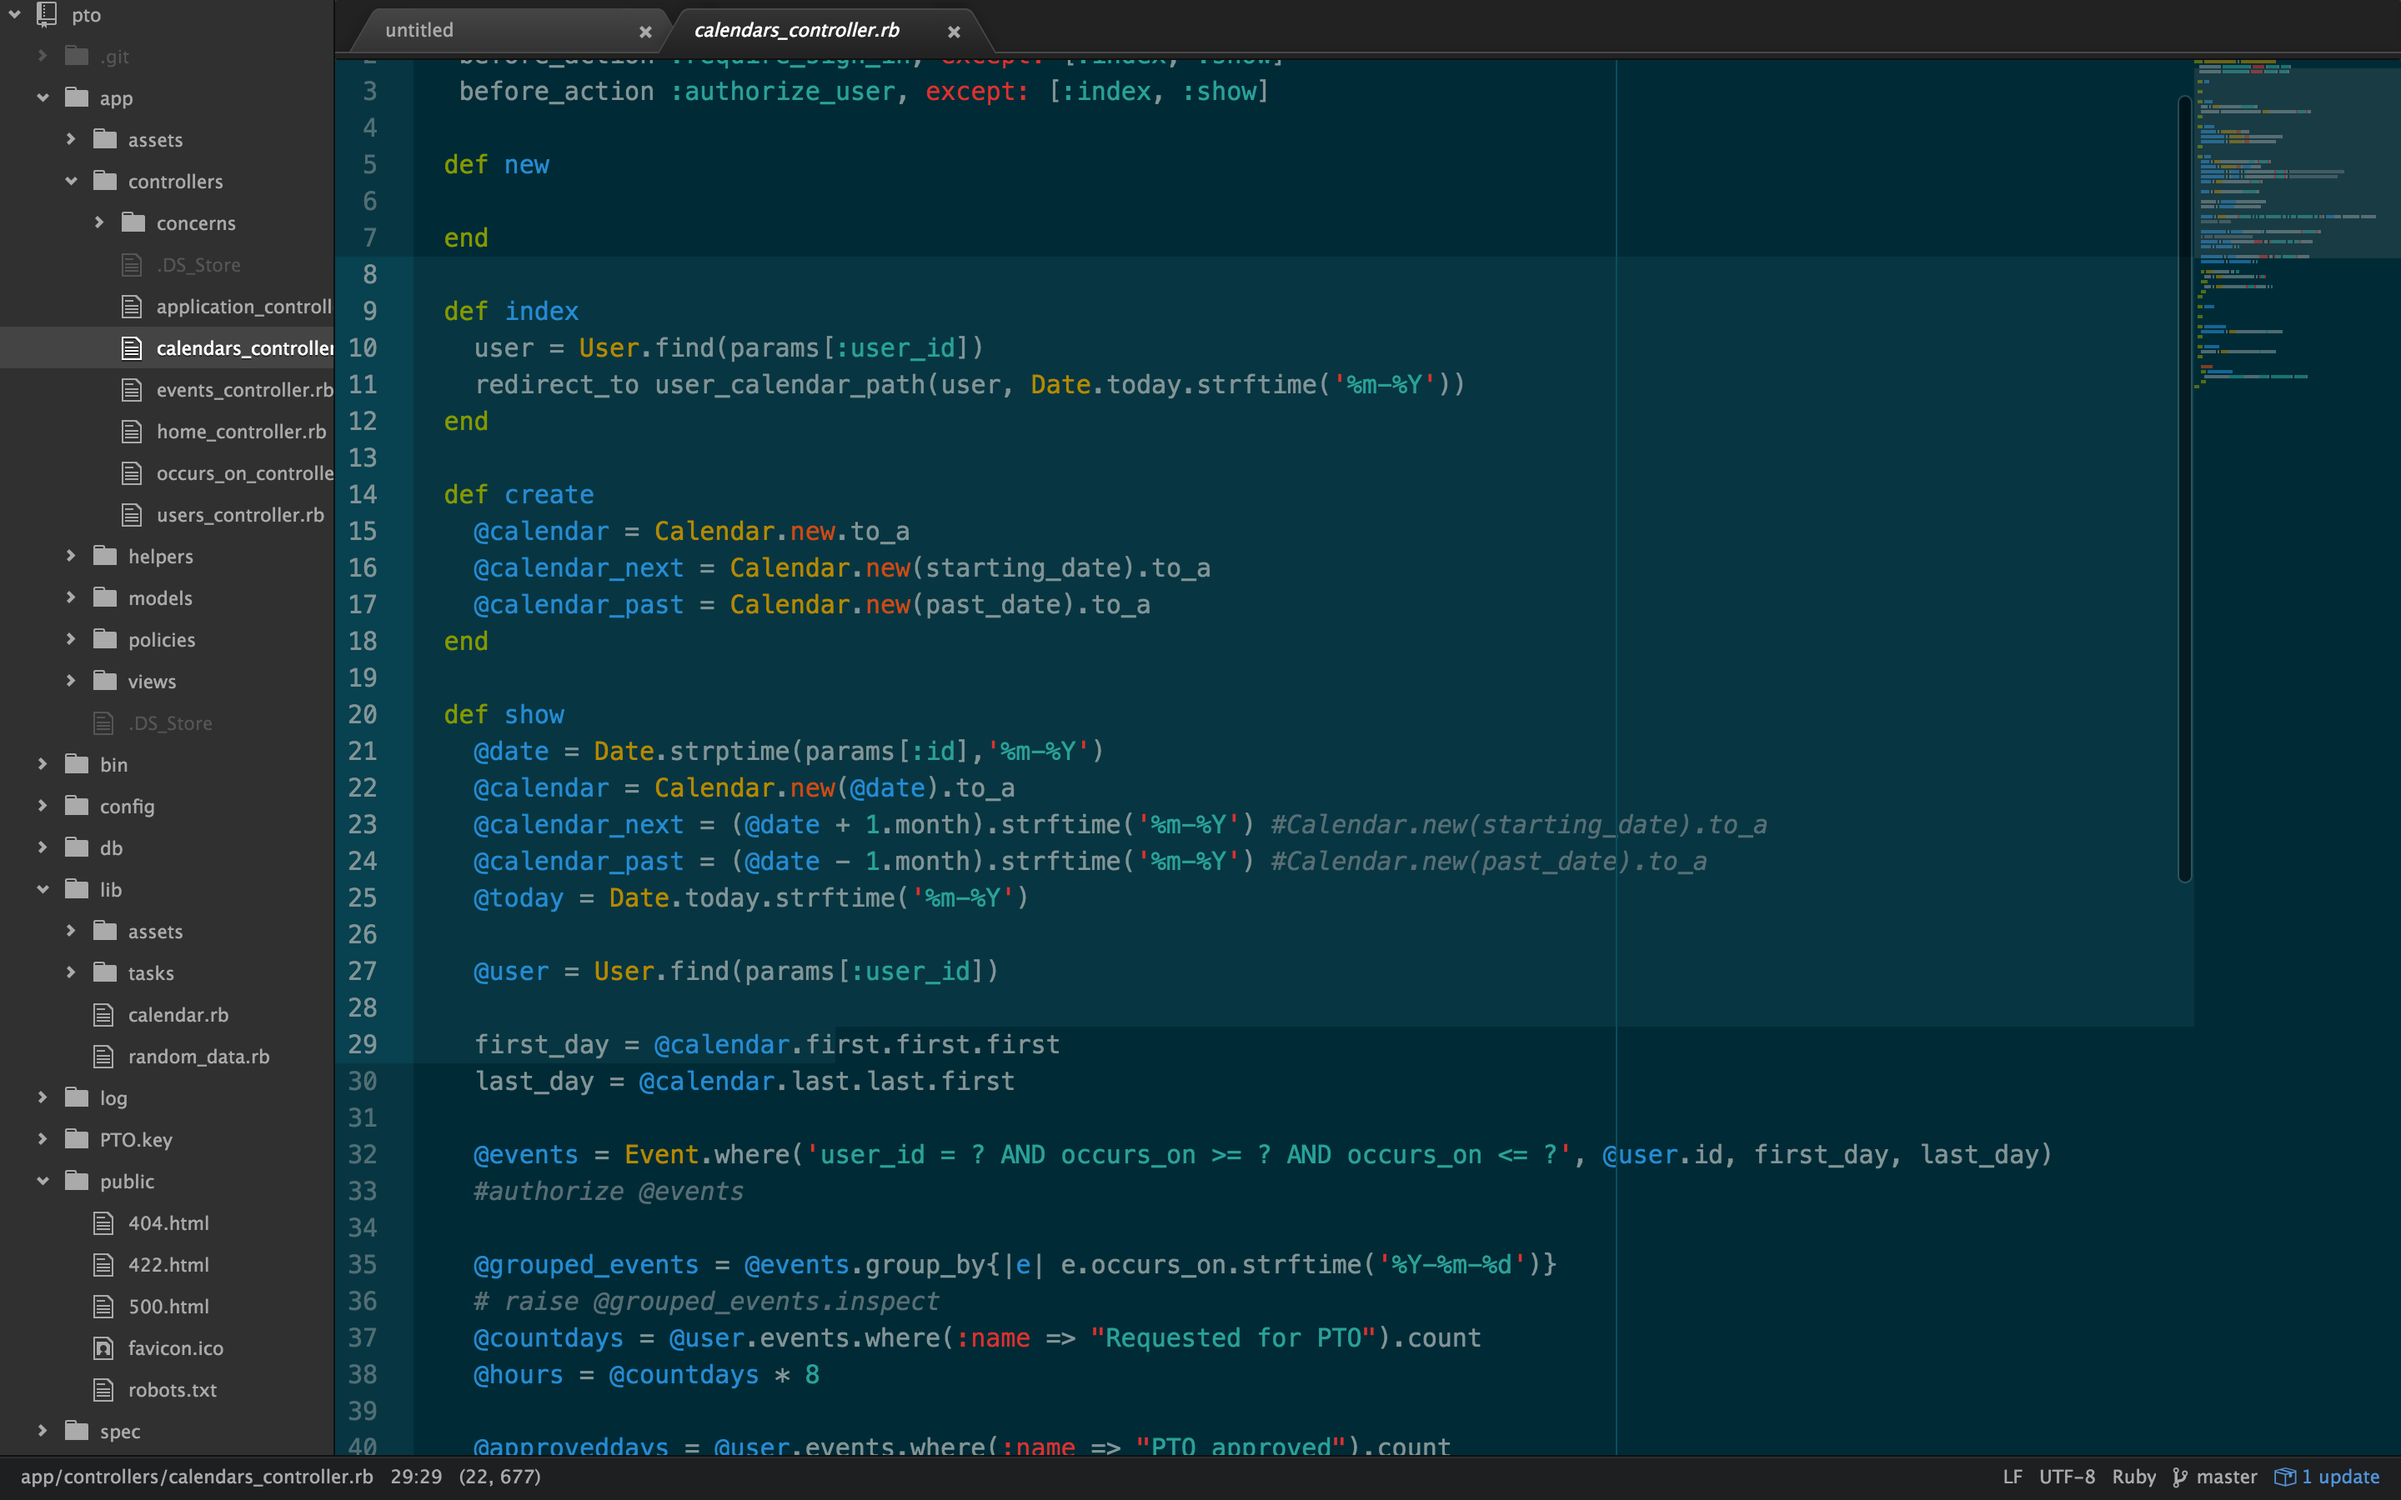
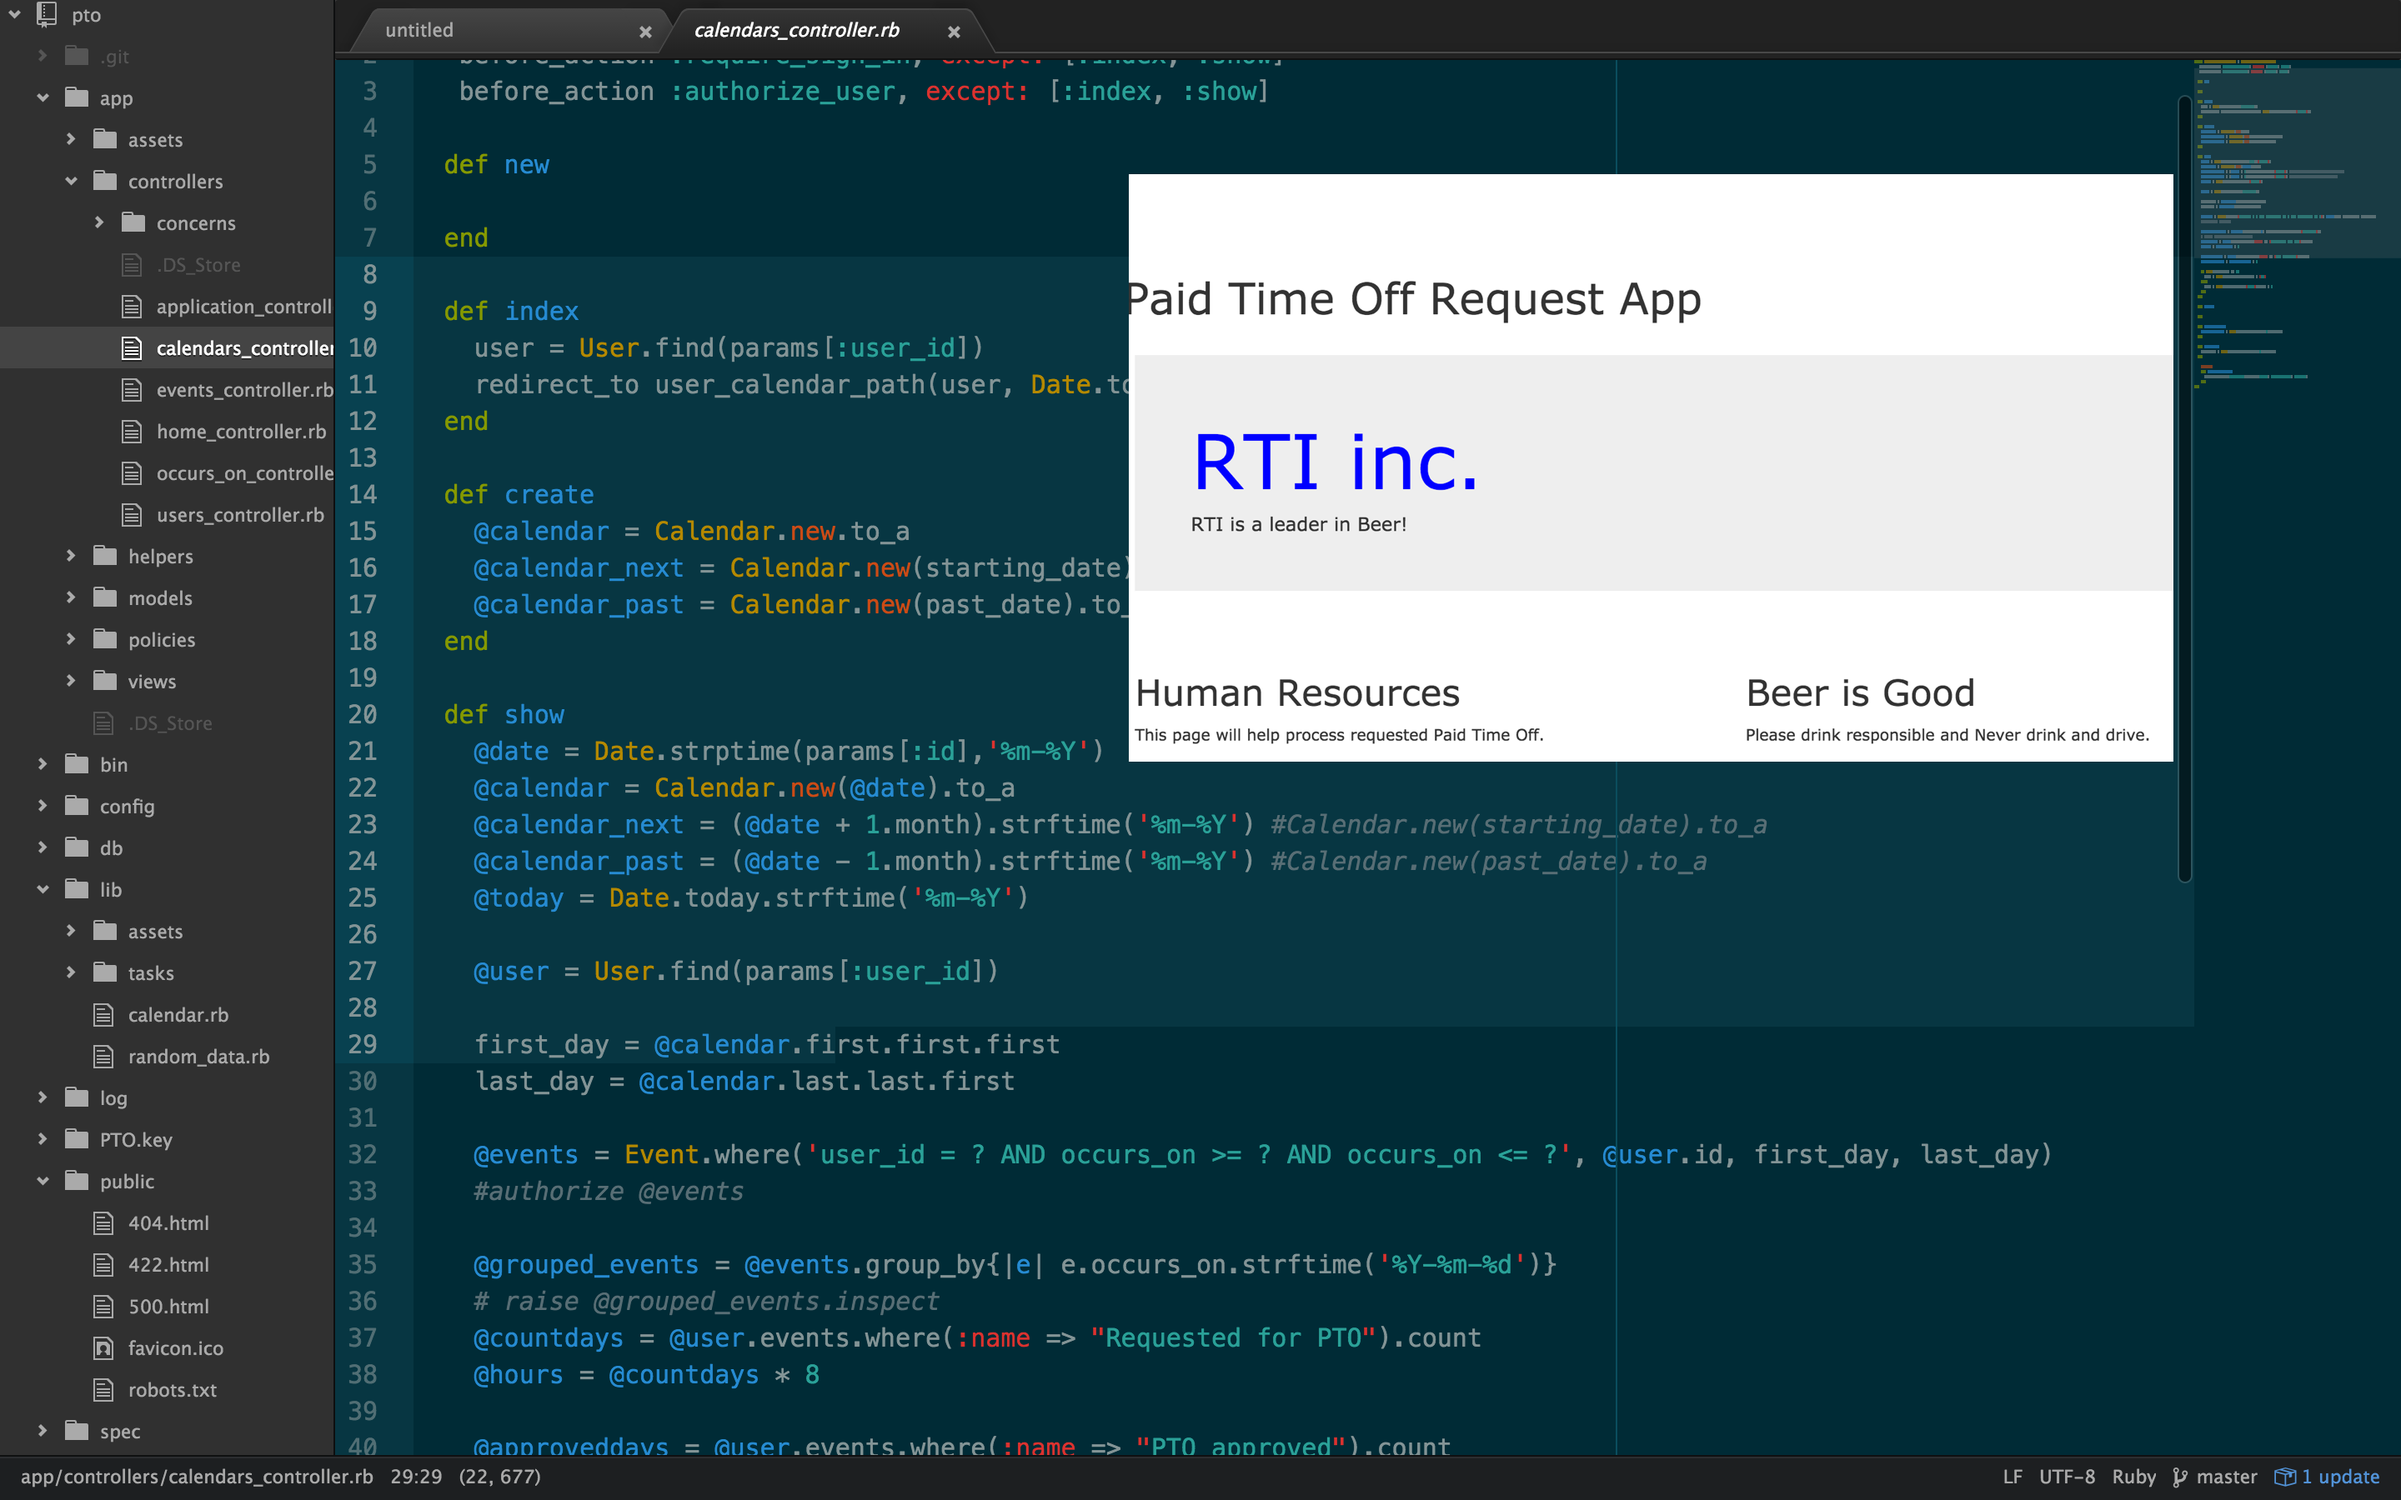
adding case studies

Changed region(s): [[0.4688, 0.0933, 0.9062, 0.5289]]

diff --git a/index.html b/index.html
@@ -22,7 +22,7 @@ layout: default
   </div>
 
   <div class="posts">
-    <h2>My Posts</h2>
+    <h2>Post a thought</h2>
     {% for post in paginator.posts %}
     <div class="post-teaser">
       <header>

diff --git a/_sass/layouts/_posts.scss b/_sass/layouts/_posts.scss
@@ -19,6 +19,7 @@ article {
 }
 header {
   h1 {
+      color: darkorange;
     margin: 0;
   }
   .meta {

diff --git a/_posts/2016-11-03-sample-post.md b/_posts/2016-11-03-sample-post.md
@@ -1,21 +1,37 @@
 ---
 layout: post
-title: Sample post
+title: Post 
 ---
-Add an post here.
+Work Harder!
+* Ok I'm human. Typo can cause issues.
+* Is Coffee a food group.
+* Life is good.
 
-* Consectetur adipiscing elit
-* Donec a diam lectus
-* Sed sit amet ipsum mauris
+Over the past fifteen years I've with some of the most success business people in the world. 
 
-Ut turpis felis, pulvinar a semper sed, adipiscing id dolor. Pellentesque auctor nisi id magna consequat sagittis. Curabitur dapibus enim sit amet elit pharetra tincidunt feugiat nisl imperdiet. Ut convallis libero in urna ultrices accumsan. Donec sed odio eros. Donec viverra mi quis quam pulvinar at malesuada arcu rhoncus. Cum sociis natoque penatibus et magnis dis parturient montes, nascetur ridiculus mus. In rutrum accumsan ultricies. Mauris vitae nisi at sem facilisis semper ac in est.
+You start asking yourself what personality traits do they all have in common. The list is short. Here's what I found. It is not scientific.
+It is real and everyone had these things in common. Intelligence is not on the list. Luck is not on the list. Social status is not on the list.
 
-Nunc diam velit, adipiscing ut tristique vitae, sagittis vel odio. Maecenas convallis ullamcorper ultricies. Curabitur ornare, ligula *semper consectetur sagittis*, nisi diam iaculis velit, id fringilla sem nunc vel mi. Nam dictum, odio nec pretium volutpat, arcu ante placerat erat, non tristique elit urna et turpis. Quisque mi metus, ornare sit amet fermentum et, tincidunt et orci. Fusce eget orci a orci congue vestibulum.
+ In no particular order.
+ 
+ >Risk is part of life. Take it.
+ 
+ >The word "No" is not in their vocabulary.
+ 
+ >A quote; "I have never failed at anything, I just don't get it right the first time. Keep trying!"  former software CEO.
+ 
+ >Work Harder!
+ 
+ >Have the guts to take that leap of faith and believe in yourself. 
+ 
+ >Money is not the reason. Reason is process of choice. 
+ 
+ > Set your own standards.
+ 
+ > Finally, Don't follow the rules.
+ 
 
-Ut dolor diam, elementum et vestibulum eu, porttitor vel elit. Curabitur venenatis pulvinar tellus gravida ornare. Sed et erat faucibus nunc euismod ultricies ut id justo. Nullam cursus suscipit nisi, et ultrices justo sodales nec. Fusce venenatis facilisis lectus ac semper. Aliquam at massa ipsum. Quisque bibendum purus convallis nulla ultrices ultricies. Nullam aliquam, mi eu aliquam tincidunt, purus velit laoreet tortor, viverra pretium nisi quam vitae mi. Fusce vel volutpat elit. Nam sagittis nisi dui.
+I worked for hours and hours on a project. Checked it again and again. My confidence was shacken. I starting questioning my abilities. Starting questioning others. Only to find another set of eyes point out that ATRIBUTE is spelled ATTRIBUTE.
 
-> Suspendisse lectus leo, consectetur in tempor sit amet, placerat quis neque
 
-Etiam luctus porttitor lorem, sed suscipit est rutrum non. Curabitur lobortis nisl a enim congue semper. Aenean commodo ultrices imperdiet. Vestibulum ut justo vel sapien venenatis tincidunt.
 
-Phasellus eget dolor sit amet ipsum dapibus condimentum vitae quis lectus. Aliquam ut massa in turpis dapibus convallis. Praesent elit lacus, vestibulum at malesuada et, ornare et est. Ut augue nunc, sodales ut euismod non, adipiscing vitae orci. Mauris ut placerat justo. Mauris in ultricies enim. Quisque nec est eleifend nulla ultrices egestas quis ut quam. Donec sollicitudin lectus a mauris pulvinar id aliquam urna cursus. Cras quis ligula sem, vel elementum mi. Phasellus non ullamcorper urna.

diff --git a/_portfolio/PTO.md b/_portfolio/PTO.md
@@ -3,14 +3,15 @@ layout: post
 
 title: PTO 
 feature-img: "img/calendar_controller.png"
-thumbnail-path: "calendar_controller.png"
-short-description: Paid Time Off  Calendar for iOS !
+thumbnail-path: "img/PTO_open_page.png"
+short-description: Paid Time Off  Calendar!
 
 ---
-
+ The PTO project was designed to track and schedule an employees paid time off. It allows employees to look at a calendar and request Paid Time Off from the calendar, that employees manager can then approve or disapprove a request. From the managers calendar they can see all scheduled PTO on a given calendar. Thus, schedule around those requests.
+ 
+ ___
 
 *Here is the index page that includes a register menu; listing current user, their role, and options such Editing and Upgrading the users role. It also provides a menu bar that currently has two primary links: Calendar and Change Events.*
-
 {:.center}
 ![]({{ site.baseurl }}/img/Frontpage.png)
 
@@ -18,8 +19,6 @@ short-description: Paid Time Off  Calendar for iOS !
 
 
 The calendar
-
-*Click on a date you will be redirected to the event menu. See the next image below.*
 {:.center}
 ![]({{ site.baseurl }}/img/employee_calendar
 .png)
@@ -42,4 +41,16 @@ Manager's calendar.
 
 ___
 
+Events page
+{:.center}
+![]({{ site.baseurl }}/img/Allevents.png)
+
+___
+
+___
+Benefit chart
+{:.center}
+![]({{ site.baseurl }}/img/TaskUARB.png)
+
+___
 

diff --git a/_portfolio/blocjams.md b/_portfolio/blocjams.md
@@ -1,9 +1,29 @@
 ---
 layout: post
 title: BlocJams
-feature-img: "img/sample_feature_img.png"
-thumbnail-path: "https://d13yacurqjgara.cloudfront.net/users/3217/screenshots/2030966/blocjams_1x.png"
+feature-img: "img/cheeseHead.png"
+thumbnail-path: "img/cheeseHead.png"
 short-description: BlocJams for iOS is awesome!
 
 ---
-This is an example of a post which includes a feature image specified in the front matter of the post. The feature image spans the full-width of the page, and is shown with the title on permalink pages.
+Yes, there are many audio players already out there! But the BlocJams-Angular was a great project for  with migrating css, assets, and angular.js development.  The project utilized Grunt (Node.js package). 
+
+The Audio player with Angular. Bootstrap the Application.
+
+{:.center}
+![]({{ site.baseurl }}/img/BlocJamsAngular_grunt.png)
+
+---
+
+
+{:.center}
+![]({{ site.baseurl }}/img/BlocJamsAngular2.png)
+
+---
+
+Some of code that converts function time into minutes and seconds.
+
+{:.center}
+![]({{ site.baseurl }}/img/timecode.png)
+
+---

diff --git a/_portfolio/blocChat.md b/_portfolio/blocChat.md
@@ -1,0 +1,29 @@
+---
+layout: post
+title: BlocChat
+feature-img: "img/sample_feature_img.png"
+thumbnail-path: "https://d13yacurqjgara.cloudfront.net/users/3217/screenshots/2030974/bloctalk_1x.png"
+short-description: BlocJams for iOS is awesome!
+
+---
+The BlocChat project was a fun. Impliciting firebase (google).
+
+---
+
+
+{:.center}
+![]({{ site.baseurl }}/img/Coffee_house.png)
+
+---
+Realtime Database on Firebase (Google) console.
+
+{:.center}
+![]({{ site.baseurl }}/img/firebasedb.png)
+
+---
+Using Grunt from terminal on my local server.
+
+{:.center}
+![]({{ site.baseurl }}/img/ChatGruntBrackets.png)
+
+---
